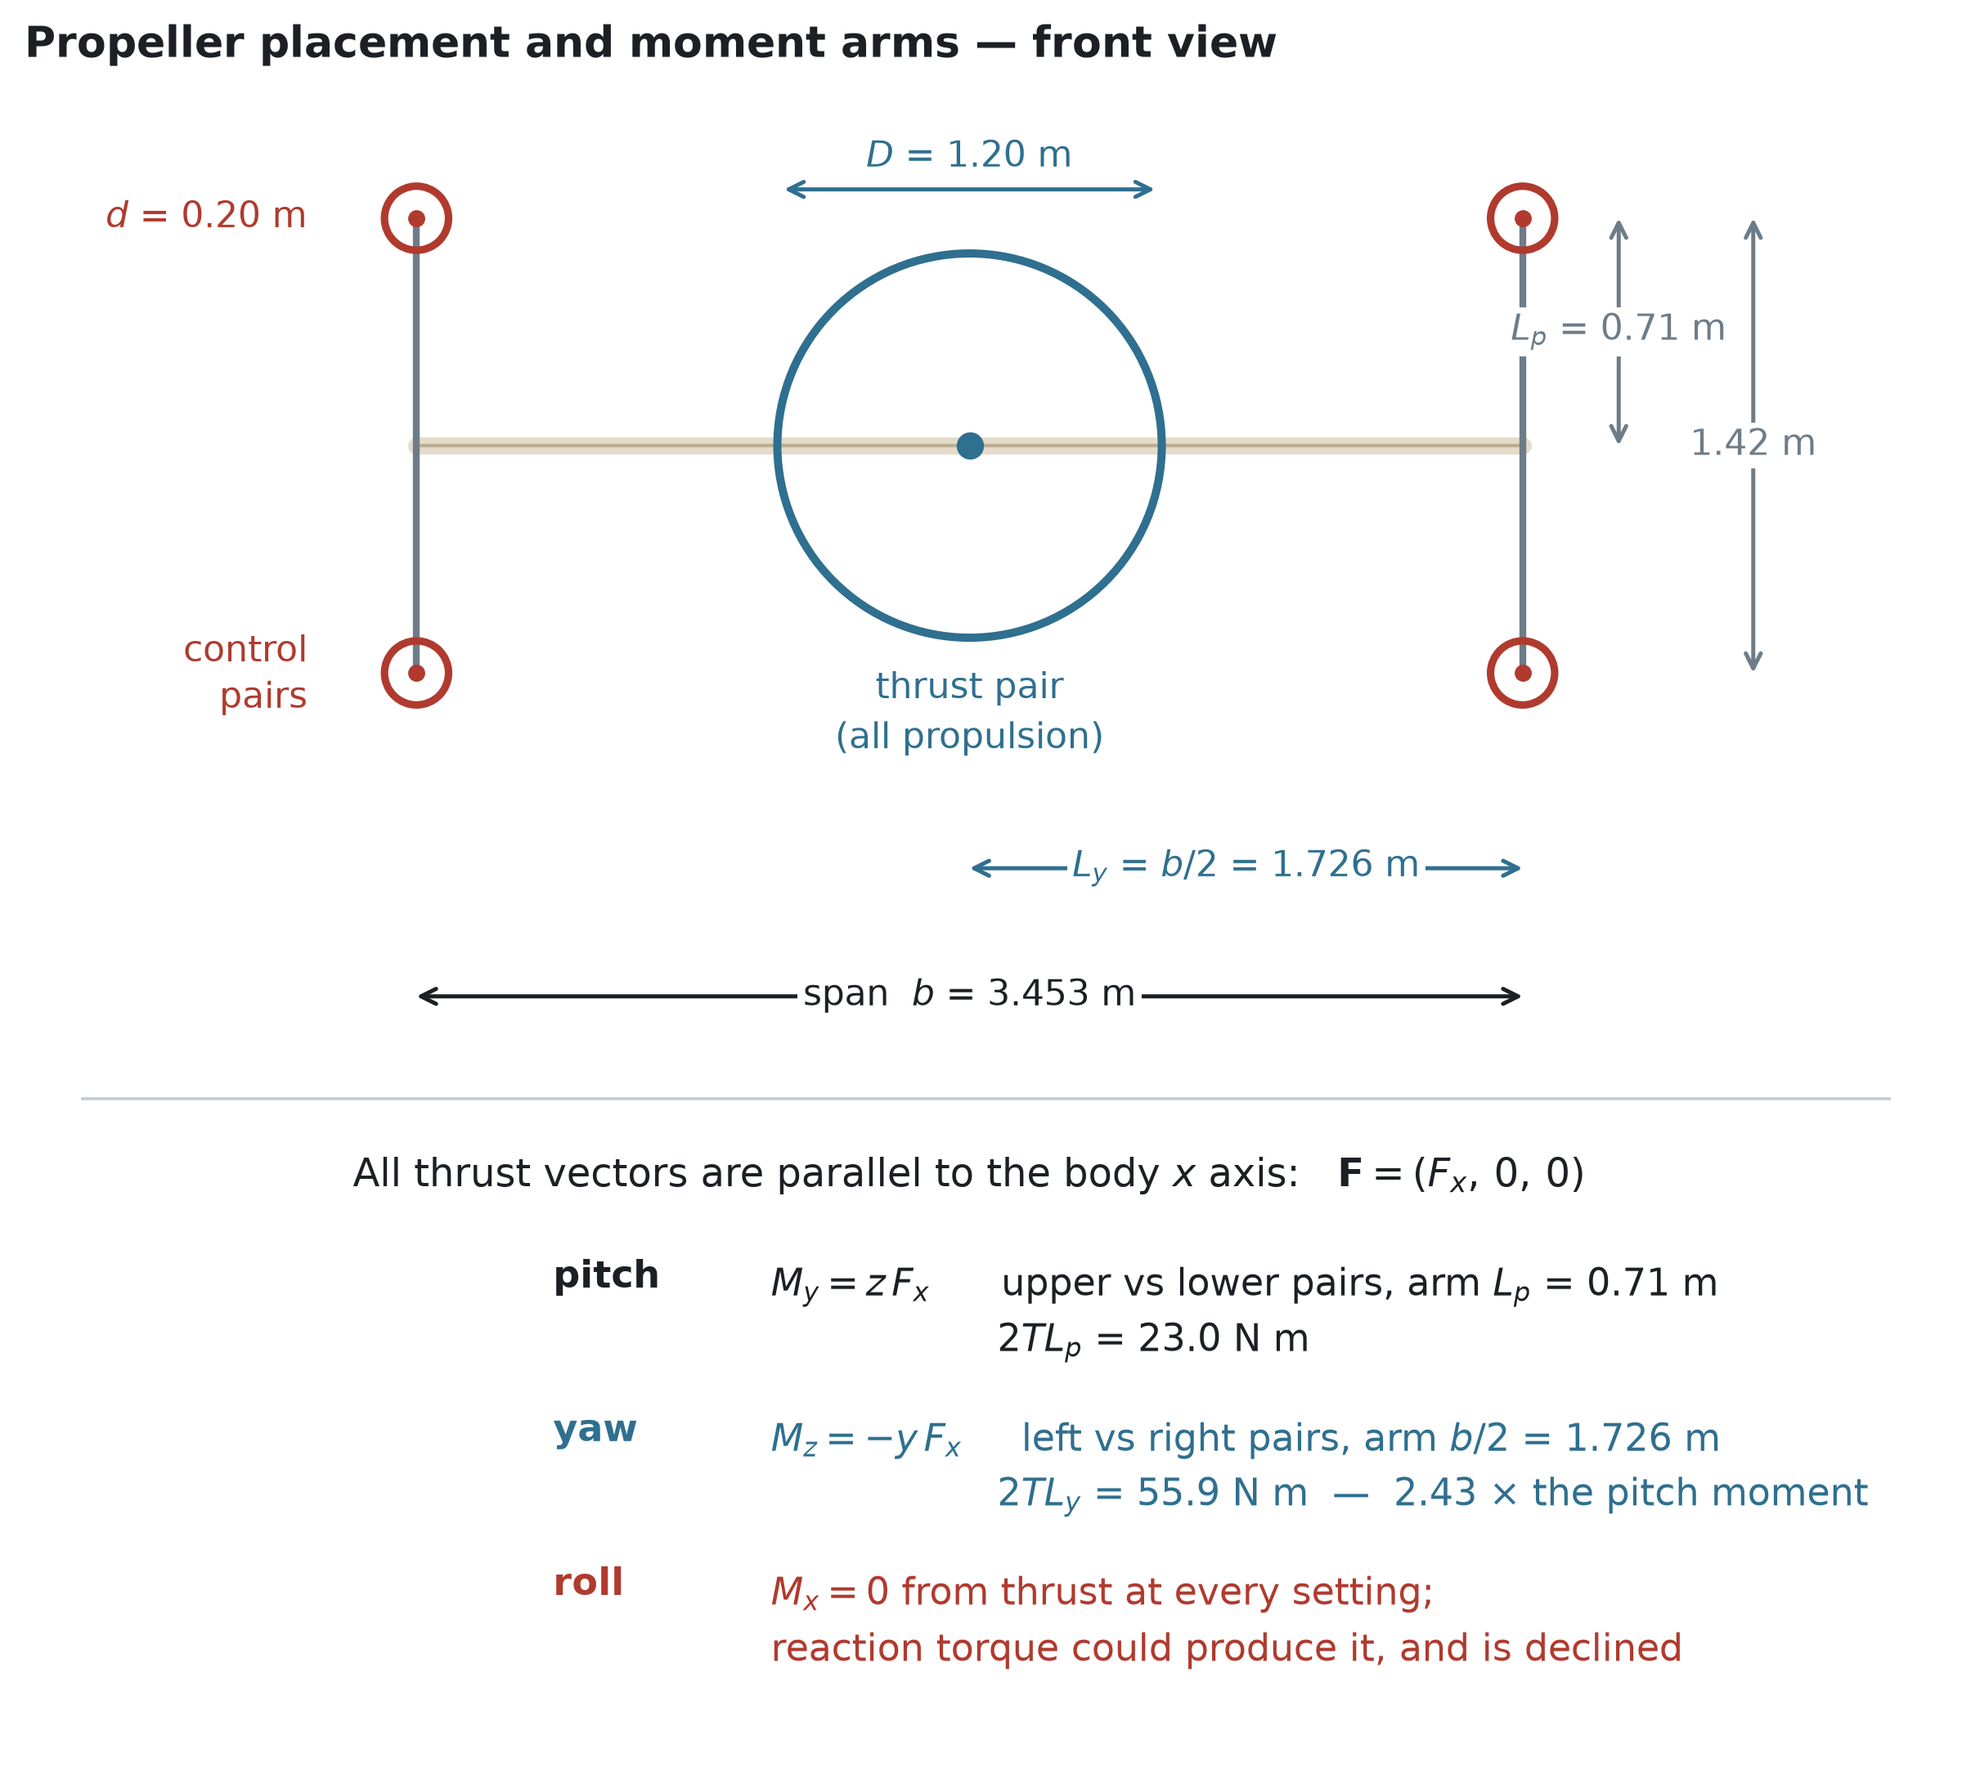
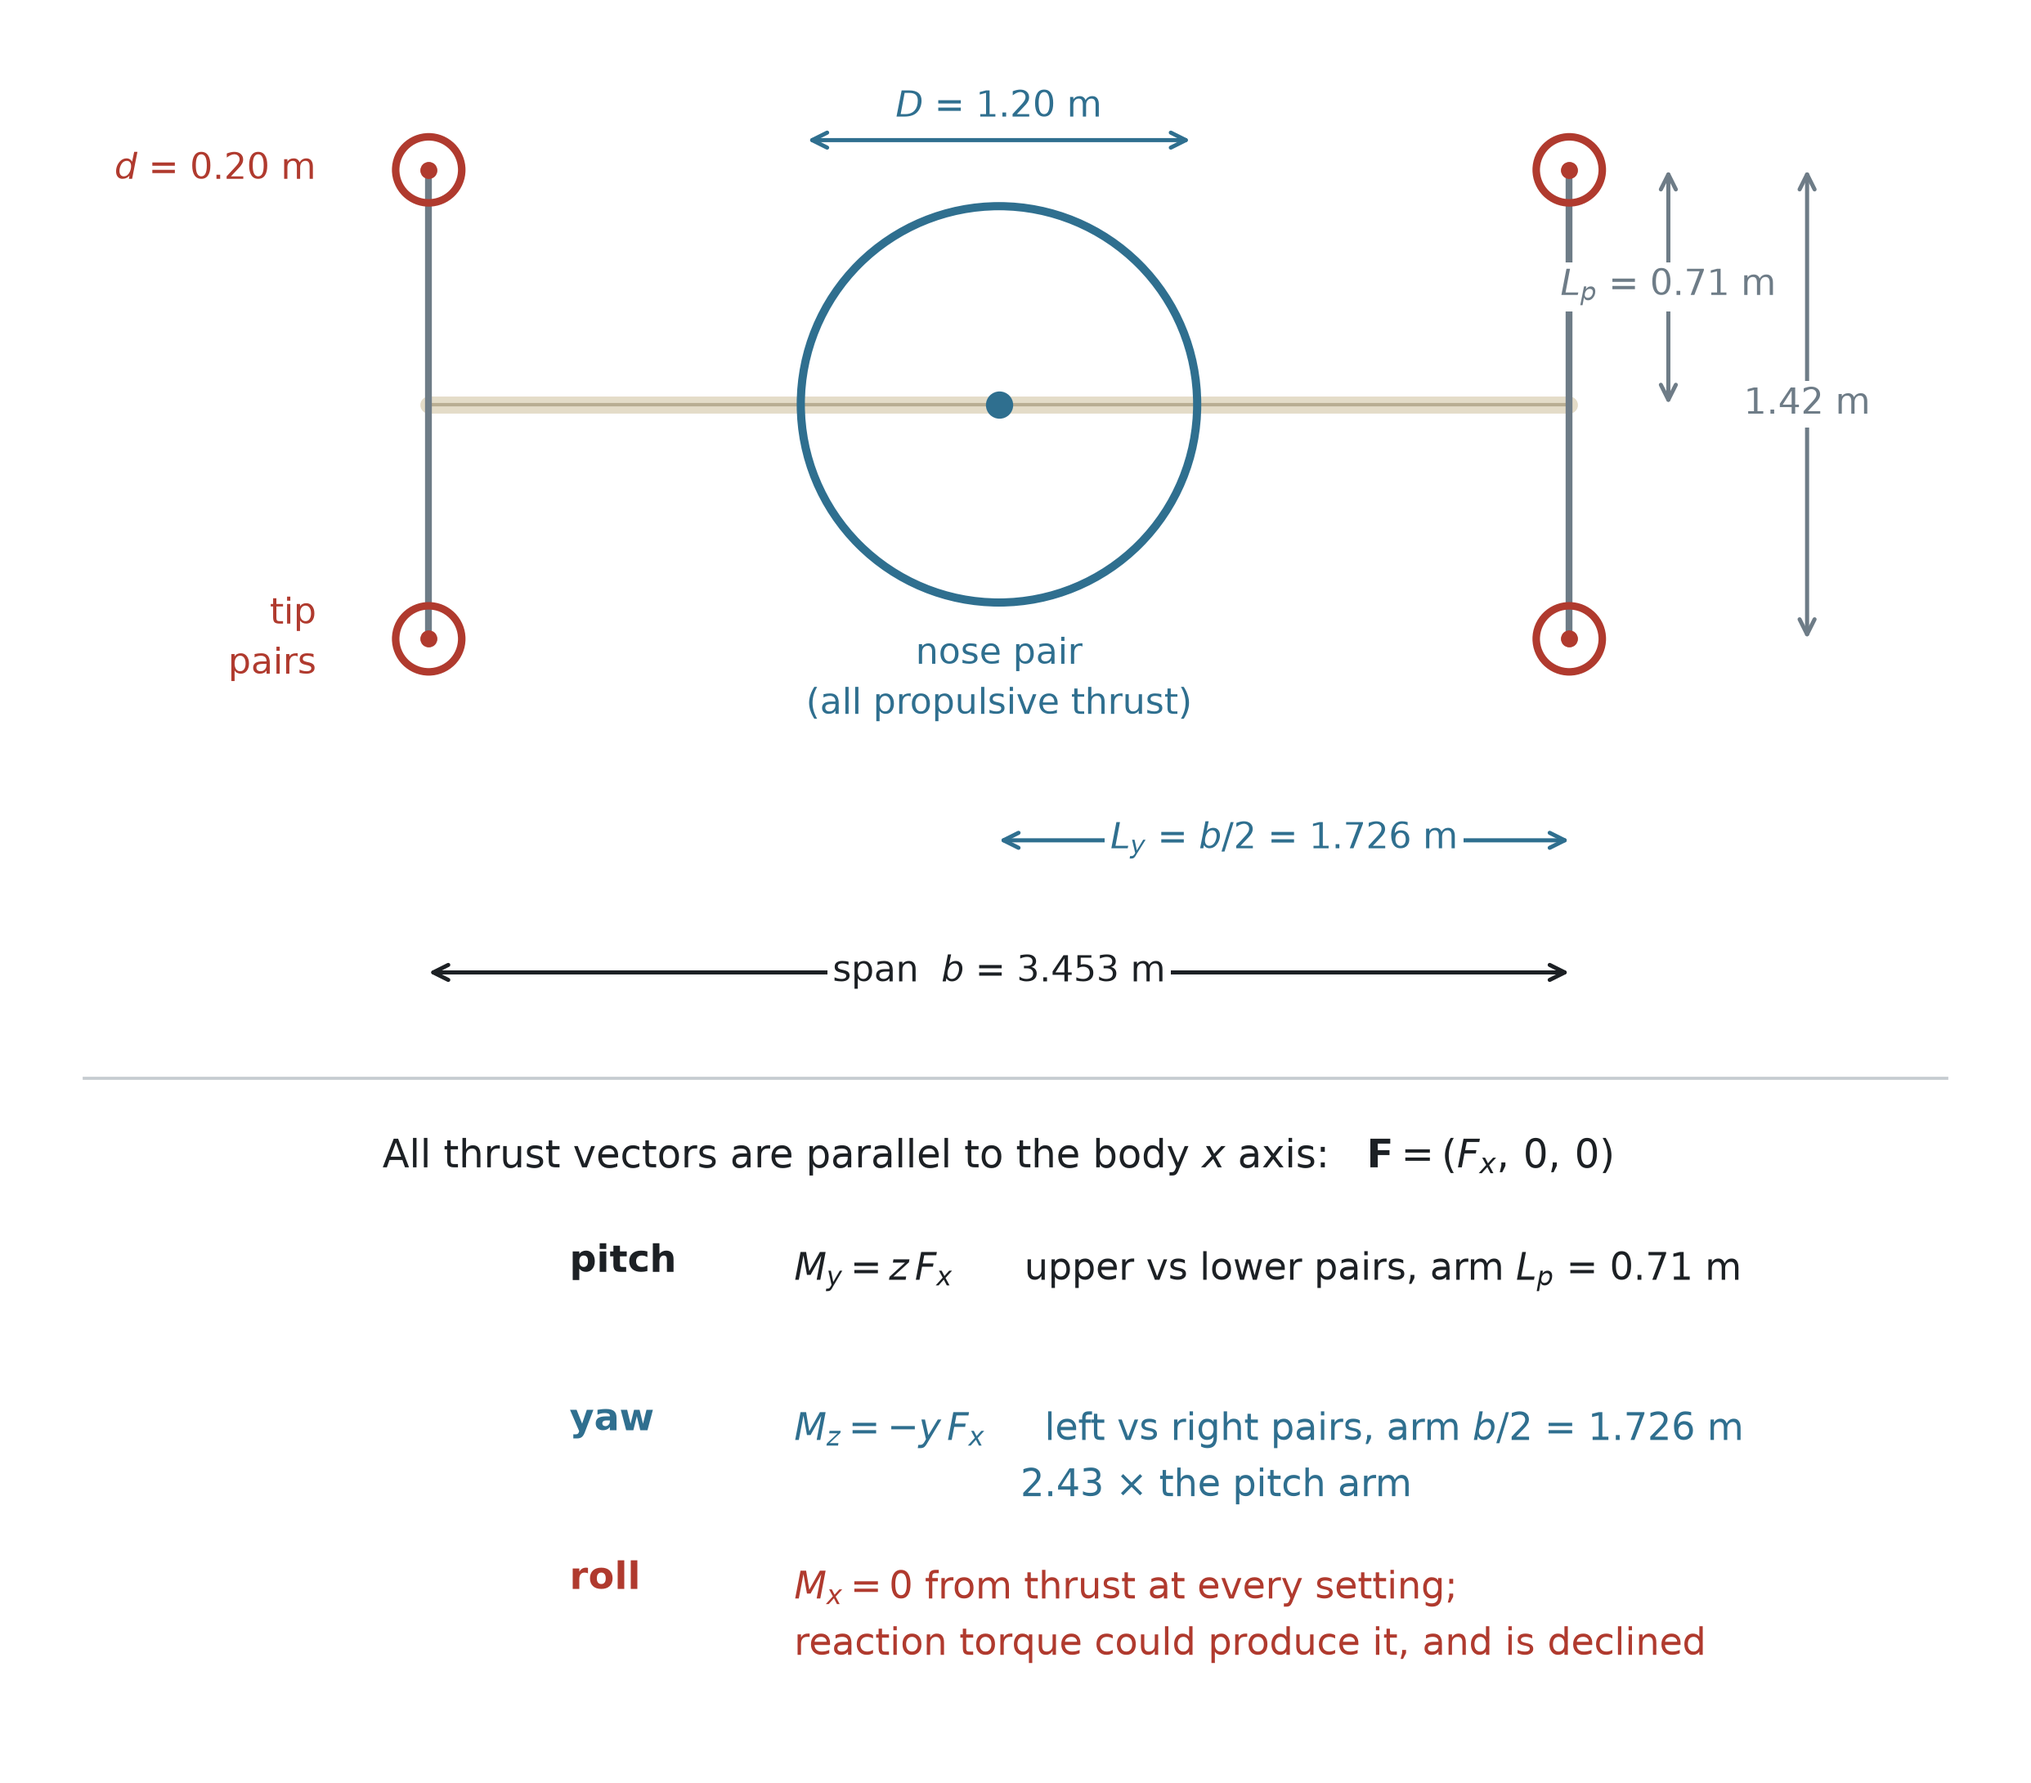
Tur 103: Tur 102 cevaplari islendi -- F1 v8 taslagi (fig05 + govde eksenleri (c) panelinde), F2a/F2b etiketleri (N m cikti, nose/tip pairs, baslik yok, 434 Pa), T4 dipnotu "within each closure" (teyide), Adim 15 kosulu korundu, AI'nin iki kurali proje notlari'ye, kural (iii) yazara (E7); Adim 10 tas

diff --git a/figures/build/mkfig_v8_f2a.py b/figures/build/mkfig_v8_f2a.py
@@ -1,6 +1,7 @@
 """v8 Sekil 2a TASLAGI: v7 Sekil 8'in (mkfig08.py) kopyasi, tek degisiklikle (Tur 101, dort okuyucu + AI):
 yatis satiri "= 0 identically, at every thrust setting" -> itkiden sifir; tepki torku uretebilir, reddedildi
-(proje notlari 0.1, Tur 47; P56). v7 sekli dokunulmadan kalir (yayimlanmis kayit). Etiketler v8_stale.py taranir.
+(proje notlari 0.1, Tur 47; P56). Tur 102 oylari (dort okuyucu + AI): iki N m degeri cikti
+(16.2 N yalniz Adim 8 denetim tablosunda); adlar Adim 8'in (nose pair, tip pairs); baslik yok, altyazi tasir. v7 sekli dokunulmadan kalir (yayimlanmis kayit). Etiketler v8_stale.py taranir.
 """
 import matplotlib; matplotlib.use("Agg")
 import matplotlib.pyplot as plt
@@ -43,27 +44,24 @@ ax.text(0,0.87,"$D$ = 1.20 m",ha="center",fontsize=10.5,color=A,
         bbox=dict(fc="white",ec="none",pad=1.6))
 ax.text(-b2-0.34,L,"$d$ = 0.20 m",ha="right",va="center",fontsize=10.5,color=R)
 # etiketler
-ax.text(0,-0.68,"thrust pair\n(all propulsion)",ha="center",va="top",fontsize=10.5,color=A,linespacing=1.4)
-ax.text(-b2-0.34,-L,"control\npairs",ha="right",va="center",fontsize=10.5,color=R,linespacing=1.4)
+ax.text(0,-0.68,"nose pair\n(all propulsive thrust)",ha="center",va="top",fontsize=10.5,color=A,linespacing=1.4)
+ax.text(-b2-0.34,-L,"tip\npairs",ha="right",va="center",fontsize=10.5,color=R,linespacing=1.4)
 # ---- moment blogu: diyagramin ALTINDA ----
 ax.axhline(-2.04,xmin=0.03,xmax=0.97,color=GR,lw=0.9)
 ax.text(0,-2.22,"All thrust vectors are parallel to the body $x$ axis:   "
         r"$\mathbf{F}=(F_x,\,0,\,0)$",ha="center",va="top",fontsize=11.5,color=INK)
 ax.text(-1.30,-2.54,r"pitch",ha="left",va="top",fontsize=11,color=INK,fontweight="bold")
-ax.text(-0.62,-2.54,r"$M_y = z\,F_x$      upper vs lower pairs, arm $L_p$ = 0.71 m"
-        "\n" r"                   $2TL_p$ = 23.0 N m",
+ax.text(-0.62,-2.54,r"$M_y = z\,F_x$      upper vs lower pairs, arm $L_p$ = 0.71 m",
         ha="left",va="top",fontsize=11,color=INK,linespacing=1.5)
 ax.text(-1.30,-3.02,r"yaw",ha="left",va="top",fontsize=11,color=A,fontweight="bold")
 ax.text(-0.62,-3.02,r"$M_z = -y\,F_x$     left vs right pairs, arm $b/2$ = 1.726 m"
-        "\n" r"                   $2TL_y$ = 55.9 N m  —  2.43 $\times$ the pitch moment",
+        "\n" r"                   2.43 $\times$ the pitch arm",
         ha="left",va="top",fontsize=11,color=A,linespacing=1.5)
 ax.text(-1.30,-3.50,r"roll",ha="left",va="top",fontsize=11,color=R,fontweight="bold")
 ax.text(-0.62,-3.50,r"$M_x = 0$ from thrust at every setting;"
         "\n" "reaction torque could produce it, and is declined",
         ha="left",va="top",fontsize=11,color=R,linespacing=1.5)
 ax.set_xlim(-2.95,3.05); ax.set_ylim(-4.10,1.15); ax.set_aspect("equal"); ax.axis("off")
-ax.set_title("Propeller placement and moment arms — front view",
-             loc="left",fontsize=12.5,fontweight="bold",pad=6)
 fig.tight_layout()
 fig.savefig(OUT+"/v8-draft-f2a-moment-arms.png",dpi=300,bbox_inches="tight")
 print("yazildi: figures/output/v8-draft-f2a-moment-arms.png")

diff --git a/figures/build/mkfig_v8_f1.py b/figures/build/mkfig_v8_f1.py
@@ -1,0 +1,49 @@
+"""v8 Sekil 1 TASLAGI (Tur 102 oylari, dort okuyucu + AI): v7 Sekil 5 (uc gorunus, 50 kg referans tasarim, 2 m cubuk)
+uzerine (c) paneline govde eksenleri. 3B goruntu yeniden uretilmez; v7 PNG'si okunur, eksenler ustune cizilir.
+Adlandirma Adim 8'in govde ekseni kurali: x_b boylamsal eksen (govde terimleriyle yatis ekseni), burun yonunde; z_b asagi.
+Askida ayni eksen dikeydir (Adim 8); iki kural karistirilmaz. y_b cizilmez (yan gorunuste bakis yonu belirtilmemis).
+Etiketler v8_stale.py SEKILLER listesinde taranir.
+"""
+import os
+import matplotlib
+from PIL import Image, ImageDraw, ImageFont
+
+KOK = os.path.dirname(os.path.dirname(os.path.dirname(os.path.abspath(__file__))))
+FD = os.path.join(os.path.dirname(matplotlib.__file__), "mpl-data", "fonts", "ttf")
+SRC = os.path.join(KOK, "figures", "output", "fig05-three-views.png")
+OUT = os.path.join(KOK, "figures", "output", "v8-draft-f1-three-views.png")
+INK = (28, 32, 36)
+
+im = Image.open(SRC).convert("RGB")
+d = ImageDraw.Draw(im)
+k = im.width / 1400.0                      # yerlesim 1400 px genislikteki onizlemede olculdu
+O = (1060 * k, 960 * k)                    # (c) panelinin bos alt-orta bolgesi
+L = 100 * k
+W = int(4 * k)
+F = ImageFont.truetype(os.path.join(FD, "DejaVuSans-Oblique.ttf"), int(17 * k))
+Fs = ImageFont.truetype(os.path.join(FD, "DejaVuSans.ttf"), int(12 * k))
+
+
+def ok(p0, p1):
+    d.line([p0, p1], fill=INK, width=W)
+    dx, dy = p1[0] - p0[0], p1[1] - p0[1]
+    n = (dx * dx + dy * dy) ** 0.5
+    ux, uy = dx / n, dy / n
+    h = 14 * k
+    d.polygon([p1, (p1[0] - h * ux + h * 0.45 * uy, p1[1] - h * uy - h * 0.45 * ux),
+               (p1[0] - h * ux - h * 0.45 * uy, p1[1] - h * uy + h * 0.45 * ux)], fill=INK)
+
+
+def etiket(xy, harf):
+    d.text(xy, harf, font=F, fill=INK)
+    w = d.textlength(harf, font=F)
+    d.text((xy[0] + w + 1 * k, xy[1] + 9 * k), "b", font=Fs, fill=INK)
+
+
+ok(O, (O[0] - L, O[1]))                    # x_b: burun yonunde (goruntude sol)
+ok(O, (O[0], O[1] + L))                    # z_b: asagi
+d.ellipse([O[0] - 4 * k, O[1] - 4 * k, O[0] + 4 * k, O[1] + 4 * k], fill=INK)
+etiket((O[0] - L - 10 * k, O[1] - 30 * k), "x")
+etiket((O[0] + 10 * k, O[1] + L - 22 * k), "z")
+im.save(OUT, dpi=(600, 600))
+print("yazildi: figures/output/v8-draft-f1-three-views.png")

diff --git a/figures/build/mkfig_v8_f2b.py b/figures/build/mkfig_v8_f2b.py
@@ -1,6 +1,7 @@
 """v8 Sekil 2b TASLAGI: v7 Sekil 9'un (mkfig09.py) kopyasi, tek onarimla (Tur 102, okuyucu teyidine):
 "deploys on-off" -> "its extension is modulated, not switched" -- Adim 8 "Extension is the control variable -- the
-strip is modulated, not switched" diyor; v7 etiketi govdeyle celisiyordu (sekil denetimi, Tur 102). v7 sekli dokunulmaz.
+strip is modulated, not switched" diyor; v7 etiketi govdeyle celisiyordu (sekil denetimi, Tur 102). Tur 102 oylari: "main propeller" -> "nose pair"; baslik yok.
+0.67 -> 0.47 m iz siniri hicbir betikte turetilmiyor (S-37, acik). v7 sekli dokunulmaz.
 """
 import matplotlib; matplotlib.use("Agg")
 import matplotlib.pyplot as plt, numpy as np, math
@@ -62,7 +63,7 @@ for sd in (1,-1):
     ax.plot(sd*sx[outb],sz[outb],color=R,lw=5.0,solid_capstyle="round",zorder=6)
 ax.plot([xc,-xc],[zc,zc],"o",ms=8,mfc="white",mec=INK,mew=1.8,zorder=7)
 # etiketler
-ax.annotate("main propeller\n$D$ = 1.20 m",xy=(-0.44,-0.41),xytext=(-2.30,-0.60),
+ax.annotate("nose pair\n$D$ = 1.20 m",xy=(-0.44,-0.41),xytext=(-2.30,-0.60),
             fontsize=10.4,color=A,ha="left",va="center",linespacing=1.4,
             arrowprops=dict(arrowstyle="-",color=A,lw=0.9))
 ax.annotate("inboard 46 % of the strip lies inside\nthe slipstream  →  authority at zero\nairspeed, where $q_\\infty$ is nil",
@@ -83,10 +84,8 @@ ax.plot([half],[TE[-1]],"|",ms=11,color=MUT,mew=1.6)
 ax.text(half+0.06,TE[-1]+0.16,"tip\n$b/2$ = 1.73 m",ha="center",va="top",fontsize=9.6,
         color=MUT,linespacing=1.35)
 ax.set_xlim(-2.40,2.30); ax.set_ylim(2.45,-0.95); ax.set_aspect("equal"); ax.axis("off")
-ax.set_title("Roll strip and the main-propeller slipstream — view from below",
-             loc="left",fontsize=12.8,fontweight="bold",pad=8)
 ax.text(-2.40,2.62,"One device, two regimes. The strip is on the lower surface, inclined at 45°, "
         "and its extension is modulated, not switched.\nIn hover the slipstream supplies the dynamic pressure "
-        "($q = T/A$ = 433 Pa) that the freestream cannot.",
+        "($q = T/A$ = 434 Pa) that the freestream cannot.",
         fontsize=9.6,color=MUT,linespacing=1.7,va="top")
 fig.savefig(OUT+"/v8-draft-f2b-strip-slipstream.png",dpi=300,bbox_inches="tight"); print("yazildi: figures/output/v8-draft-f2b-strip-slipstream.png")

diff --git a/paper/v8/ALL-STEPS.md b/paper/v8/ALL-STEPS.md
@@ -1348,7 +1348,8 @@ architecture — and for the 50 kg design, which is the only one carried through
 | **C** | 0.0285 | 0.632 | 10.82 | 6.84 | 53.5 kg | 0.597 | 11.66 kW | 3.91 kW | 1 141 km |
 | **D** | 0.0285 | 0.683 | 10.82 | 7.39 | 52.3 kg | 0.592 | 11.40 kW | 3.54 kW | 1 233 km |
 
-*L/De = L/D × η_p at the cruise condition; the loop holds both factors fixed, so the closure changes neither. The four
+*L/De = L/D × η_p at the cruise condition; the loop holds both factors fixed
+within each closure, so the closure changes neither. The four
 L/De values are the bounding corners of that product, carried into the closures as inputs, not four simulated aircraft.*
 
 **Payload is an input, fixed at 13 kg; take-off mass is the output.** The closure returns 52.3 to

diff --git a/paper/v8/ASSEMBLED.md b/paper/v8/ASSEMBLED.md
@@ -1341,7 +1341,8 @@ architecture — and for the 50 kg design, which is the only one carried through
 | **C** | 0.0285 | 0.632 | 10.82 | 6.84 | 53.5 kg | 0.597 | 11.66 kW | 3.91 kW | 1 141 km |
 | **D** | 0.0285 | 0.683 | 10.82 | 7.39 | 52.3 kg | 0.592 | 11.40 kW | 3.54 kW | 1 233 km |
 
-*L/De = L/D × η_p at the cruise condition; the loop holds both factors fixed, so the closure changes neither. The four
+*L/De = L/D × η_p at the cruise condition; the loop holds both factors fixed
+within each closure, so the closure changes neither. The four
 L/De values are the bounding corners of that product, carried into the closures as inputs, not four simulated aircraft.*
 
 **Payload is an input, fixed at 13 kg; take-off mass is the output.** The closure returns 52.3 to

diff --git a/cfd/README.md b/cfd/README.md
@@ -1,4 +1,4 @@
-> **GÜNCEL DIŞ GÖRÜŞ TURU → [`external-review-106.md`](external-review-106.md)** · yeni pencere açan okuyucu için
+> **GÜNCEL DIŞ GÖRÜŞ TURU → [`external-review-107.md`](external-review-107.md)** · yeni pencere açan okuyucu için
 > [`reader-onboarding.md`](reader-onboarding.md) · önceki bütün turlar [`arsiv-dis-gorus/`](arsiv-dis-gorus/).
 > *(Düzen, Tur 65: bu dizinin kökünde yalnız güncel tur metni ve başlangıç metni durur; yeni tur gelince bir öncekisi
 > arşive gider. Kaynak PDF'ler `references/`'te; `source/` altındakiler CFD kodunun açtığı dosyalar, yerinde kalır.)*
